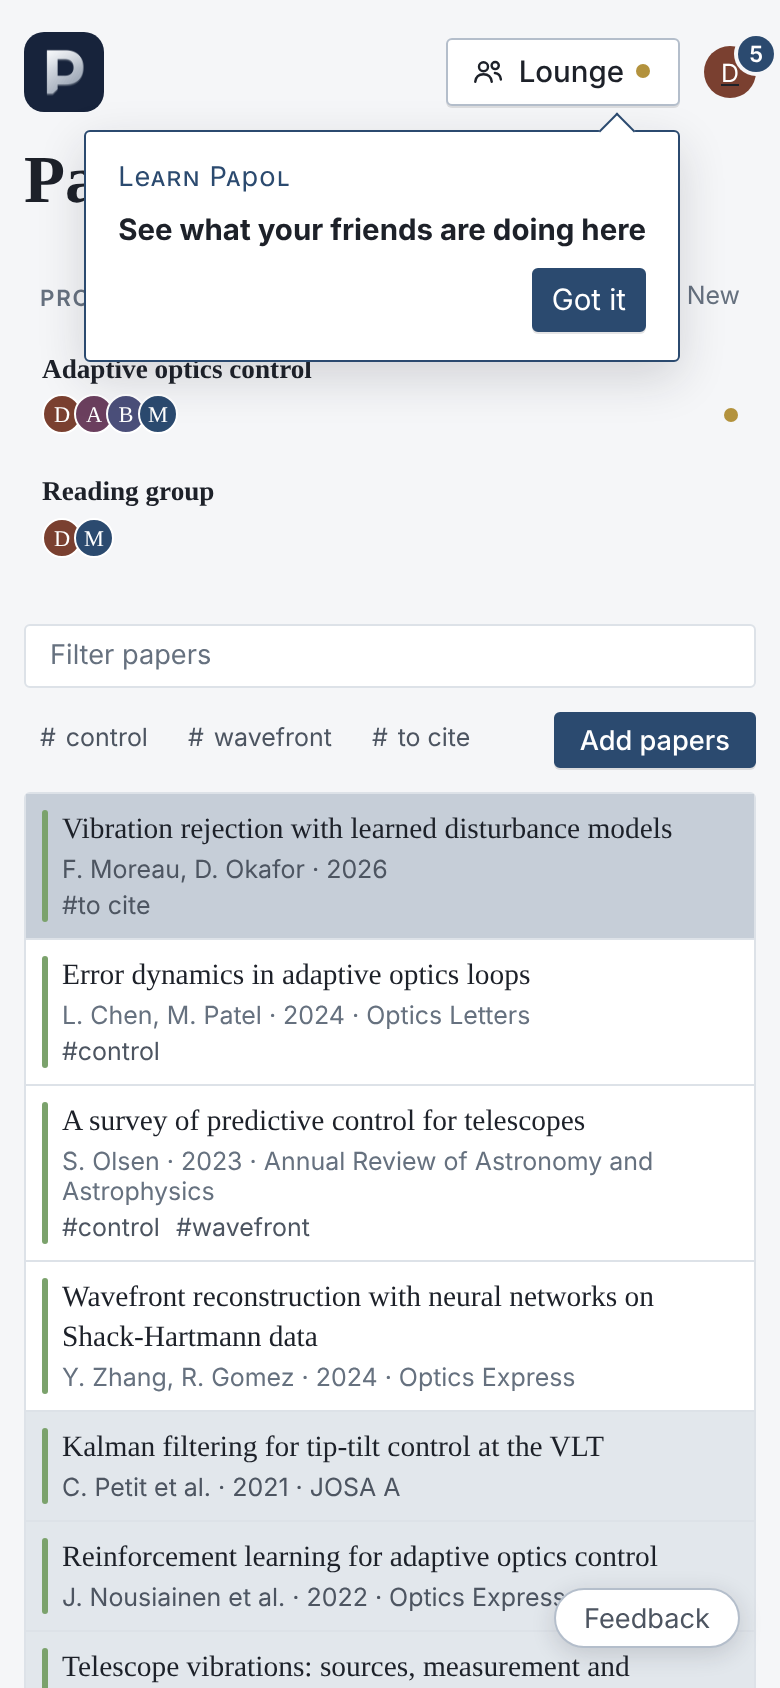
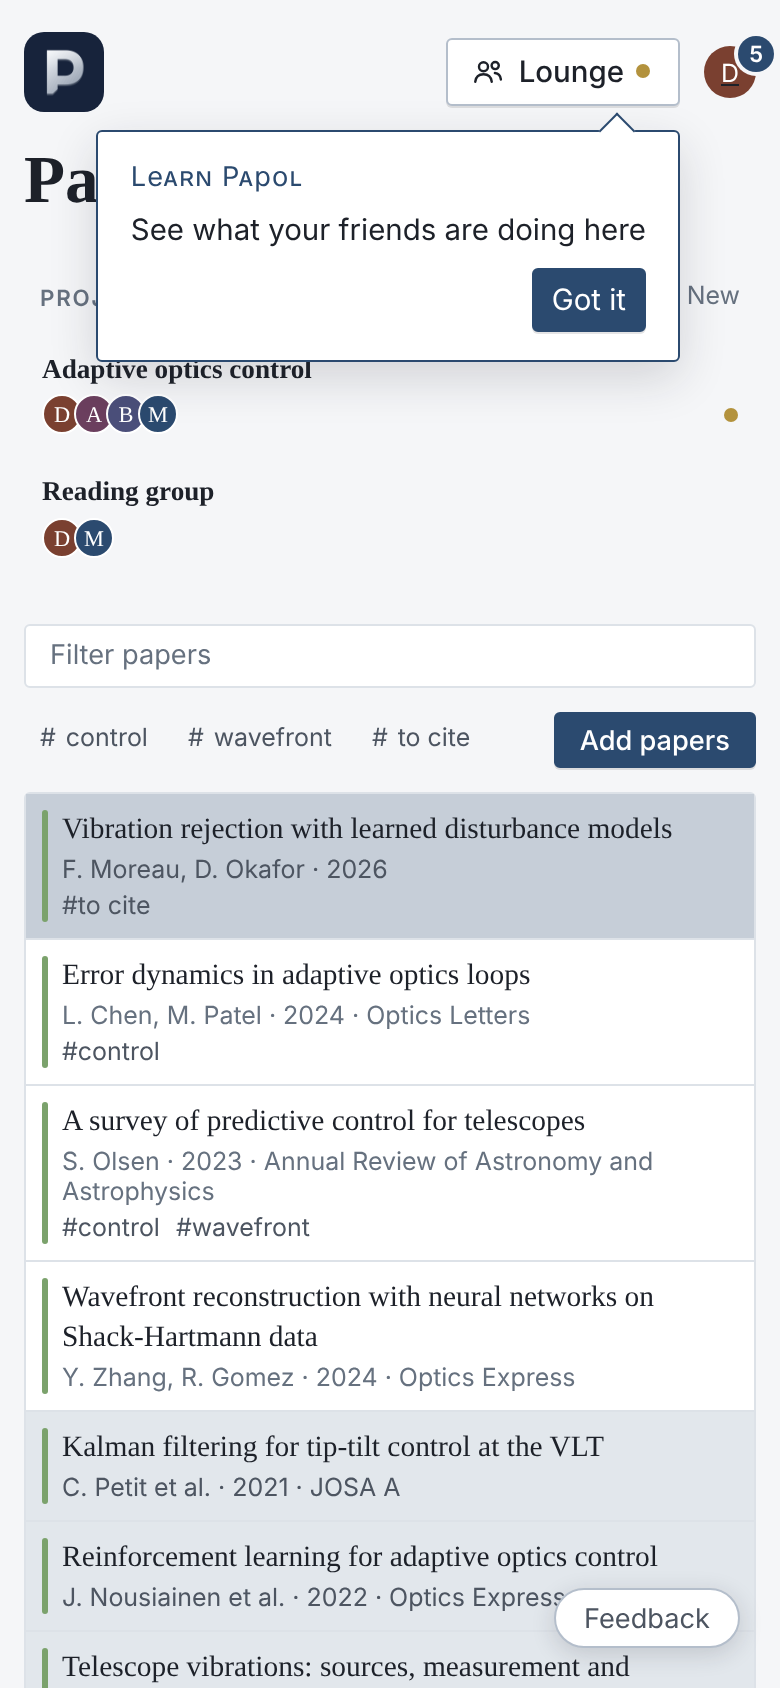
The Lounge tip's sentence is in regular weight
Claude-Session: https://claude.ai/code/session_01PQZzMSk34VyZGQZLxFWTGE

Changed region(s): [[0.1538, 0.0924, 0.8, 0.154], [0.0923, 0.0924, 0.1231, 0.2156]]

diff --git a/frontend/src/components/LoungeTip.jsx b/frontend/src/components/LoungeTip.jsx
@@ -21,7 +21,7 @@ export default function LoungeTip({ here = false }) {
   return (
     <span className="learn-papol lounge-tip" role="dialog" aria-labelledby="lounge-tip-title">
       <span className="learn-papol-kicker">Learn Papol</span>
-      <strong id="lounge-tip-title">See what your friends are doing here</strong>
+      <span id="lounge-tip-title" className="lounge-tip-words">See what your friends are doing here</span>
       <button type="button" className="learn-papol-close" onClick={tell} aria-label="Dismiss this tip">
         Got it
       </button>

diff --git a/shared/applicationStyles.js b/shared/applicationStyles.js
@@ -1812,6 +1812,8 @@ ${inDark([[
 .way-room-anchor { position: relative; display: inline-flex; }
 .learn-papol.lounge-tip { left: auto; right: 0; transform: none; width: max-content; max-width: calc(100vw - 24px); }
 .learn-papol.lounge-tip::before { left: auto; right: 24px; }
+/* Its one sentence is said plainly, not as a heading. */
+.learn-papol .lounge-tip-words { color: var(--ink); font-size: var(--fs-md); }
 
 /* Keeps its own colours on hover, where every other button turns blue:
    a public chip that went blue would be saying private. */
